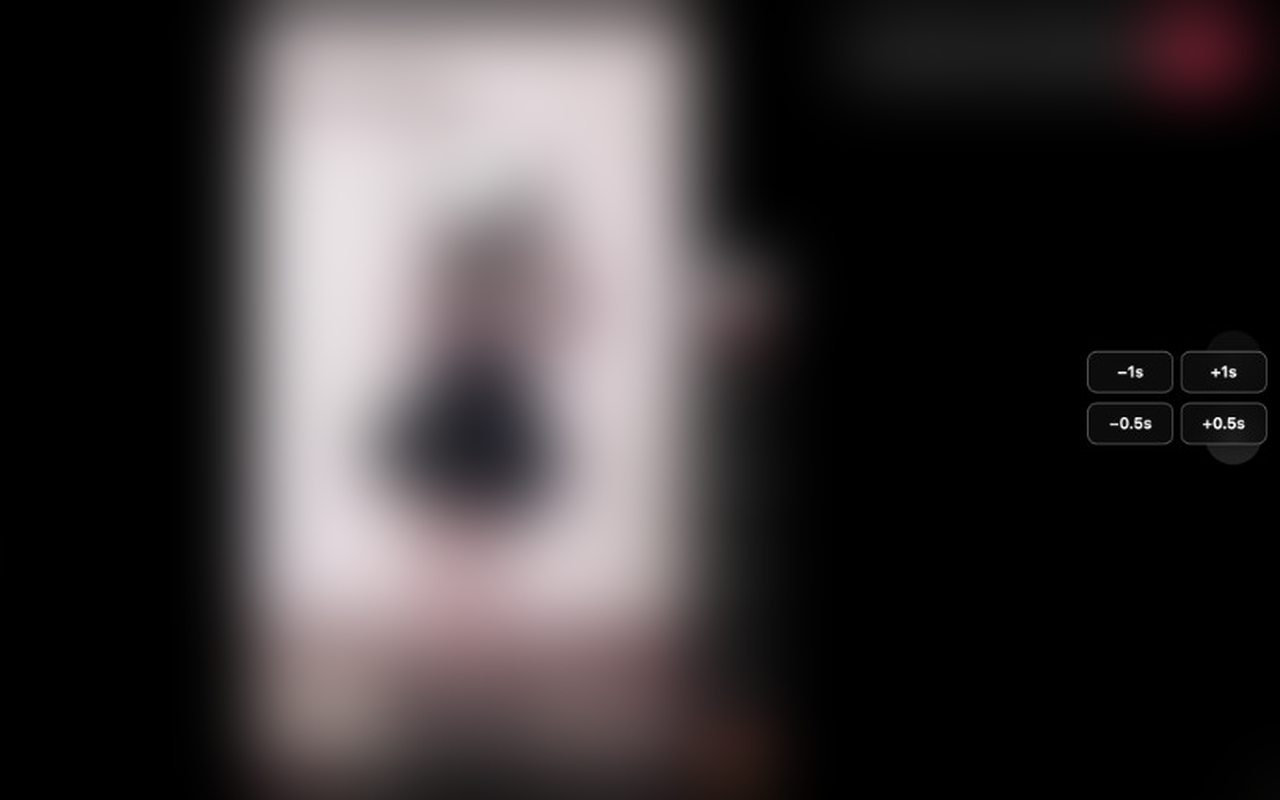
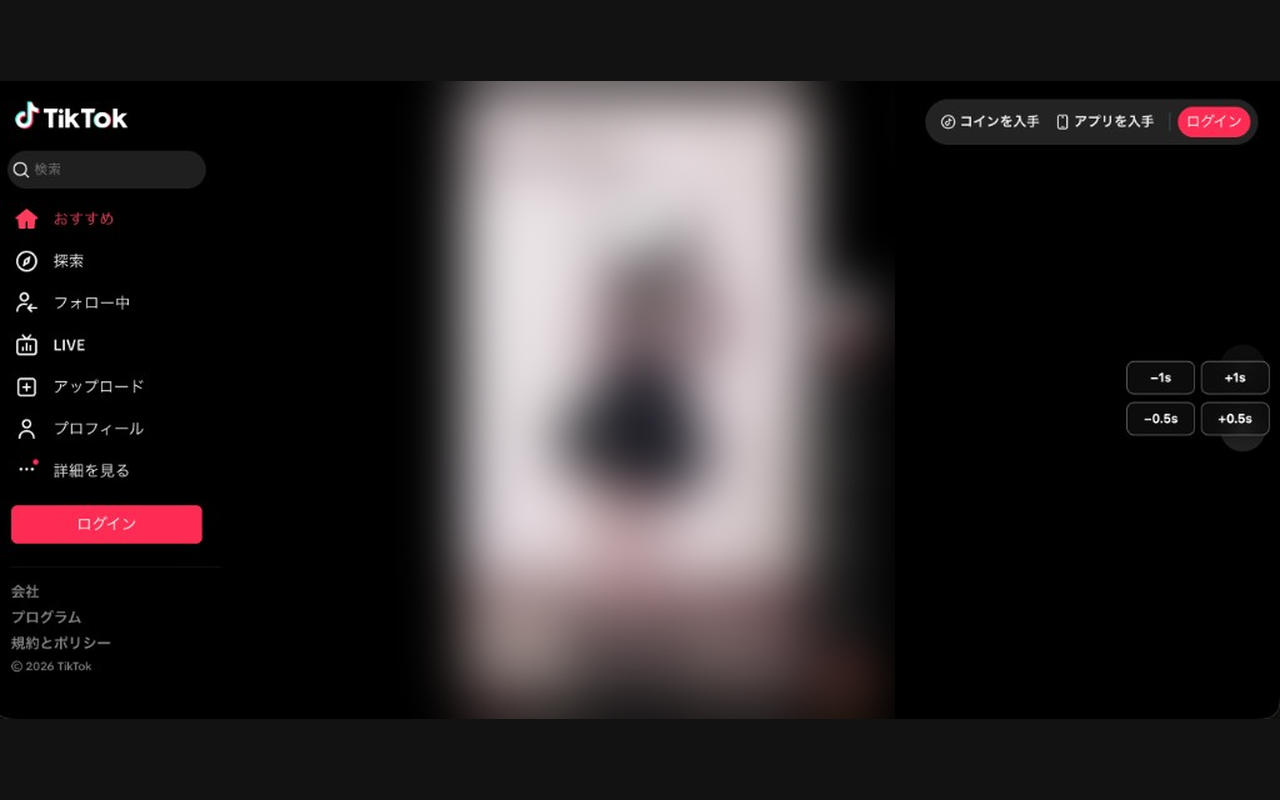
screenshots: blur center band only, contain+letterbox (no crop)
Made-with: Cursor

diff --git a/scripts/process_store_screenshot.py b/scripts/process_store_screenshot.py
@@ -1,8 +1,8 @@
 #!/usr/bin/env python3
 """
 Chrome Web Store 用スクリーンショット加工:
-- 顔・ユーザー名・動画内容を強いぼかしで匿名化
-- 拡張の操作ボタン部分のみ鮮明に残す（領域は定数で調整可）
+- 中央の動画コンテンツ帯のみ強いぼかし（左の TikTok ロゴ・メニュー、右の UI は鮮明）
+- 切り抜きは行わず、アスペクト比を維持してキャンバス内に全体を収め、余白はレターボックスで埋める
 - 1280×800 または 640×400、RGB PNG（アルファなし）
 
 使用例:
@@ -17,48 +17,64 @@ from pathlib import Path
 from PIL import Image, ImageFilter
 
 
-# 元画像上で「拡張のボタンだけ鮮明に残す」矩形（比率で指定、右寄せクロップ後も破綻しにくいようやや広め）
-PATCH_X0_FRAC = 0.74
-PATCH_X1_FRAC = 1.0
-PATCH_Y0_FRAC = 0.22
-PATCH_Y1_FRAC = 0.68
+# 元画像幅に対する比率: 左端〜この位置まで「ぼかさない」（サイドバー・ロゴ）
+LEFT_SHARP_END_FRAC = 0.24
+# この位置から右端まで「ぼかさない」（いいね等・拡張ボタン）
+RIGHT_SHARP_START_FRAC = 0.70
+# その間が中央コンテンツ（ぼかし対象）
 
 BLUR_RADIUS = 22
+# レターボックスの背景（TikTok ダークに近いグレー）
+PAD_BG = (18, 18, 18)
 
 
-def cover_crop_right(
-    im: Image.Image, out_w: int, out_h: int
+def contain_pad(
+    im: Image.Image, out_w: int, out_h: int, bg: tuple[int, int, int] = PAD_BG
 ) -> Image.Image:
-    """アスペクト比を保って拡大し、横方向は右端優先で out_w×out_h に切り出す。"""
+    """
+    アスペクト比を維持したまま out_w×out_h の箱に全体が収まるよう縮小・拡大し、
+    不足分は上下または左右に余白（レターボックス）を付ける。クロップしない。
+    """
+    im = im.convert("RGB")
     w, h = im.size
-    scale = max(out_w / w, out_h / h)
-    nw, nh = math.ceil(w * scale), math.ceil(h * scale)
+    scale = min(out_w / w, out_h / h)
+    nw = max(1, int(round(w * scale)))
+    nh = max(1, int(round(h * scale)))
     resized = im.resize((nw, nh), Image.Resampling.LANCZOS)
-
-    if nw >= out_w:
-        left = nw - out_w
-    else:
-        left = 0
-    if nh >= out_h:
-        top = (nh - out_h) // 2
-    else:
-        top = 0
-
-    return resized.crop((left, top, left + out_w, top + out_h))
+    canvas = Image.new("RGB", (out_w, out_h), bg)
+    left = (out_w - nw) // 2
+    top = (out_h - nh) // 2
+    canvas.paste(resized, (left, top))
+    return canvas
 
 
 def anonymize_for_store(im: Image.Image) -> Image.Image:
-    """全体を強くぼかし、拡張 UI 付近だけ元の解像度で貼り戻す。"""
+    """
+    画面全体をぼかしたうえで、左ストリップと右ストリップに元画像を貼り戻す。
+    中央の動画エリアのみぼかしが残る。
+    """
     im = im.convert("RGB")
     w, h = im.size
+    x_left = int(w * LEFT_SHARP_END_FRAC)
+    x_right = int(w * RIGHT_SHARP_START_FRAC)
+    if x_left >= x_right:
+        raise ValueError(
+            "LEFT_SHARP_END_FRAC は RIGHT_SHARP_START_FRAC より小さくしてください。"
+        )
+
     blurred = im.filter(ImageFilter.GaussianBlur(BLUR_RADIUS))
-    bx0 = int(w * PATCH_X0_FRAC)
-    bx1 = int(w * PATCH_X1_FRAC)
-    by0 = int(h * PATCH_Y0_FRAC)
-    by1 = int(h * PATCH_Y1_FRAC)
-    patch = im.crop((bx0, by0, bx1, by1))
     out = blurred.copy()
-    out.paste(patch, (bx0, by0))
+
+    # 左サイドバー（ロゴ・メニュー）
+    if x_left > 0:
+        strip_l = im.crop((0, 0, x_left, h))
+        out.paste(strip_l, (0, 0))
+
+    # 右側（操作列・拡張ボタン）
+    if x_right < w:
+        strip_r = im.crop((x_right, 0, w, h))
+        out.paste(strip_r, (x_right, 0))
+
     return out
 
 
@@ -86,15 +102,15 @@ def main() -> None:
     out_1280 = out_dir / "chrome-web-store-1280x800.png"
     out_640 = out_dir / "chrome-web-store-640x400.png"
 
-    cover1280 = cover_crop_right(processed, 1280, 800)
-    cover1280.save(out_1280, format="PNG", optimize=True)
+    fit1280 = contain_pad(processed, 1280, 800)
+    fit1280.save(out_1280, format="PNG", optimize=True)
 
-    cover640 = cover1280.resize((640, 400), Image.Resampling.LANCZOS)
-    cover640.save(out_640, format="PNG", optimize=True)
+    fit640 = contain_pad(processed, 640, 400)
+    fit640.save(out_640, format="PNG", optimize=True)
 
     print(f"Wrote {out_1280}")
     print(f"Wrote {out_640}")
-    print("Mode: RGB, no alpha (PNG 24-bit)")
+    print("Mode: RGB, no alpha (PNG 24-bit); layout: contain + letterbox, no crop")
 
 
 if __name__ == "__main__":
